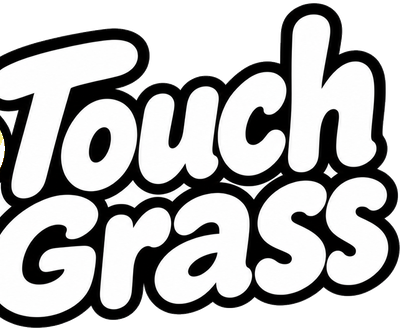
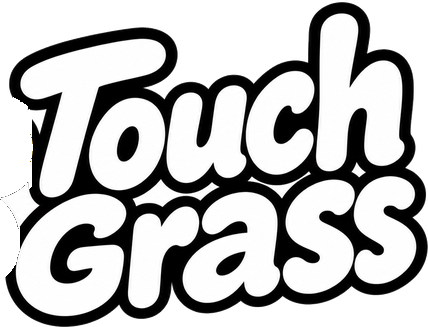
Link preview: clean Touch Grass wordmark edge, bump cache version
Claude-Session: https://claude.ai/code/session_01En9gD8UUK8u12pTjbxDdaG

diff --git a/pages/api/og.js b/pages/api/og.js
@@ -118,7 +118,7 @@ export default async function handler(req) {
           <img src={`${origin}/brand/wago-wave.png`} width={437} height={446} style={{ marginLeft: 36, marginTop: 40 }} />
           <div style={{ display: "flex", flexDirection: "column", alignItems: "center", flex: 1, marginLeft: 8, marginRight: 20 }}>
             {/* eslint-disable-next-line @next/next/no-img-element */}
-            <img src={`${origin}/brand/touchgrass-wordmark.png`} width={171} height={140} />
+            <img src={`${origin}/brand/touchgrass-wordmark.png`} width={171} height={131} />
             <div style={{ display: "flex", fontFamily: FRED, fontSize: 68, fontWeight: 700, color: INK, marginTop: 4 }}>PROOF OF GRASS</div>
             <div style={{ display: "flex", fontFamily: NUN, fontSize: 26, fontWeight: 800, color: GREEN, letterSpacing: 9, marginTop: 2 }}>TOUCH. PROVE. WIN.</div>
             <div style={{ display: "flex", background: "linear-gradient(180deg,#fffef6,#f6edcf)", border: `5px solid ${GREEN}`, borderRadius: 60, padding: "10px 26px", fontFamily: FRED, fontSize: 25, whiteSpace: "nowrap", fontWeight: 700, color: INK, marginTop: 22 }}>Go outside. Post proof. Build your streak.</div>

diff --git a/components/OgMeta.js b/components/OgMeta.js
@@ -5,7 +5,7 @@ export const SITE_URL = "https://proofofgrass.app";
 export const DEFAULT_OG = {
   title: "Touch Grass | Proof of Grass",
   description: "Official Touch Grass application for outdoor verification, streak tracking, wallet integration, and ecosystem rewards.",
-  image: `${SITE_URL}/api/og?type=site&v=3`,
+  image: `${SITE_URL}/api/og?type=site&v=4`,
 };
 
 export default function OgMeta({ title, description, image, url }) {
